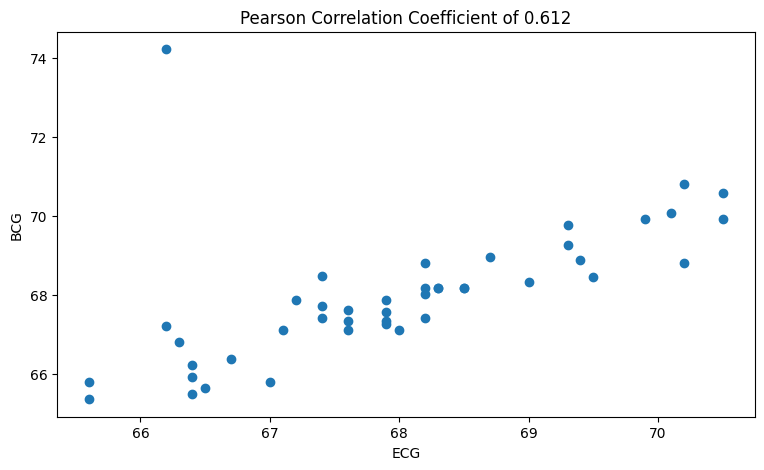
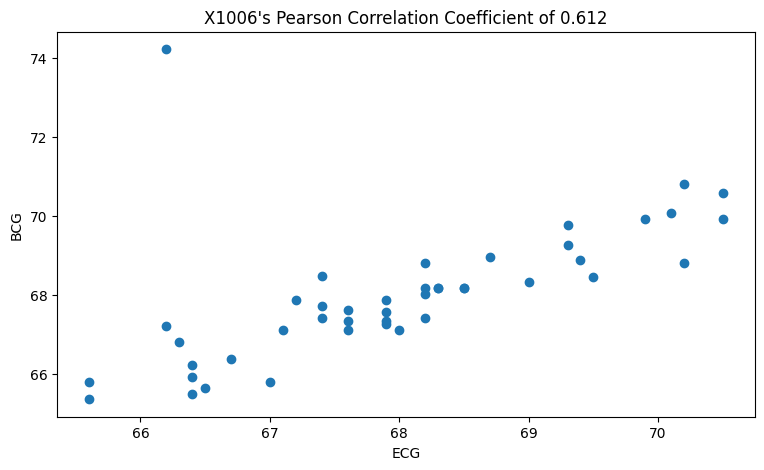
done

Changed region(s): [[0.2709, 0.0, 0.8128, 0.0596]]

diff --git a/src/modules/utils.py b/src/modules/utils.py
@@ -49,6 +49,13 @@ def save_to_txt(patient, ecg, bcg, err1, err2, err3):
 
 def plots(ecg, bcg, patient):
 
+    # Boxplots
+    plt.figure(figsize = (9, 5))
+    data = [ecg, bcg]
+    plt.boxplot(data, labels=['ECG', 'BCG'])
+    plt.title(f'{patient}\'s Box Plots')
+    plt.savefig('results/box_plot', bbox_inches='tight')
+
     # Bland-Altman
     sm.graphics.mean_diff_plot(ecg, bcg)
     plt.title(f'{patient}\'s Bland-Altman Plot')

diff --git a/src/main.py b/src/main.py
@@ -41,8 +41,8 @@ def main():
             # Save results in .txt file (results/output.txt)
             save_to_txt(os.path.splitext(filename)[0], ecg_hr, bcg_hr, err1, err2, err3)
 
-
-            if filename == 'X1010.csv':
+            # Save plots for selected patient
+            if filename == 'X1006.csv':
                 plots(ecg_hr, bcg_hr, os.path.splitext(filename)[0])
 
 
